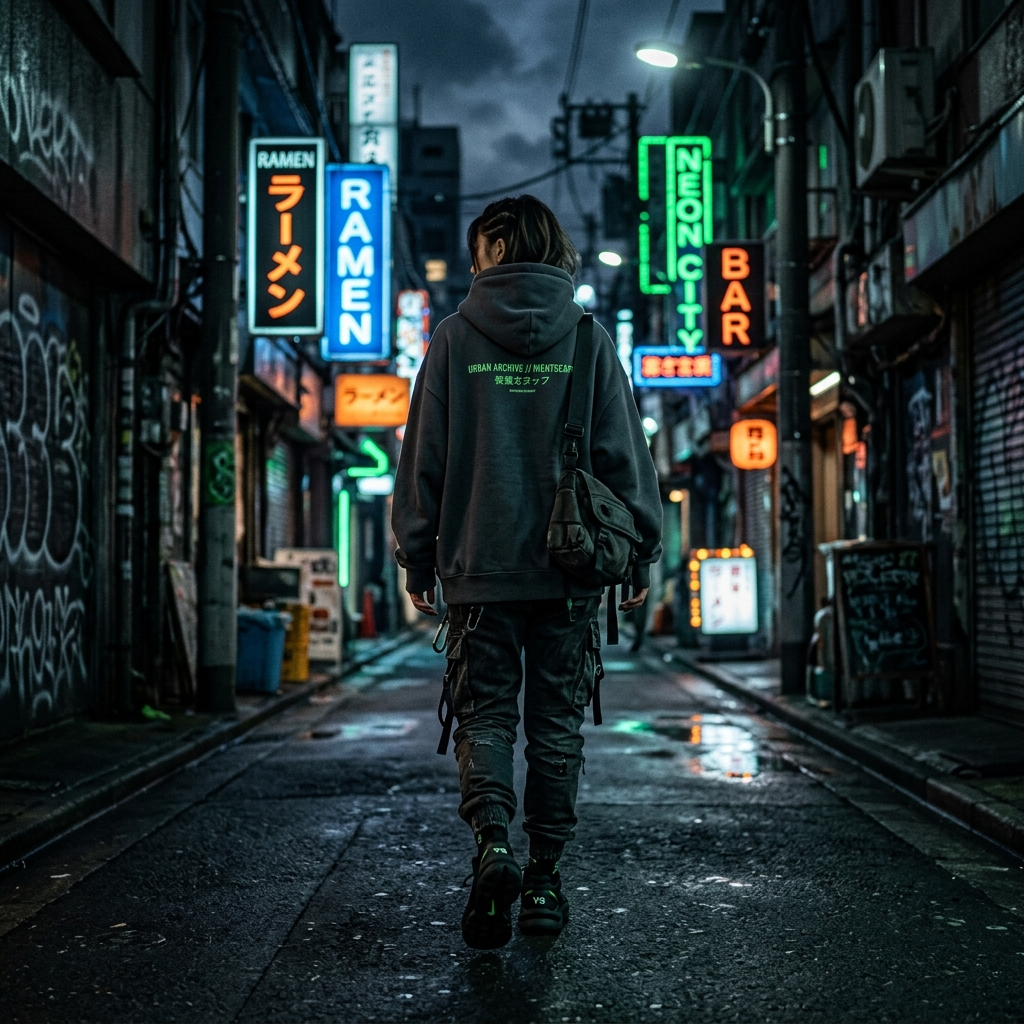
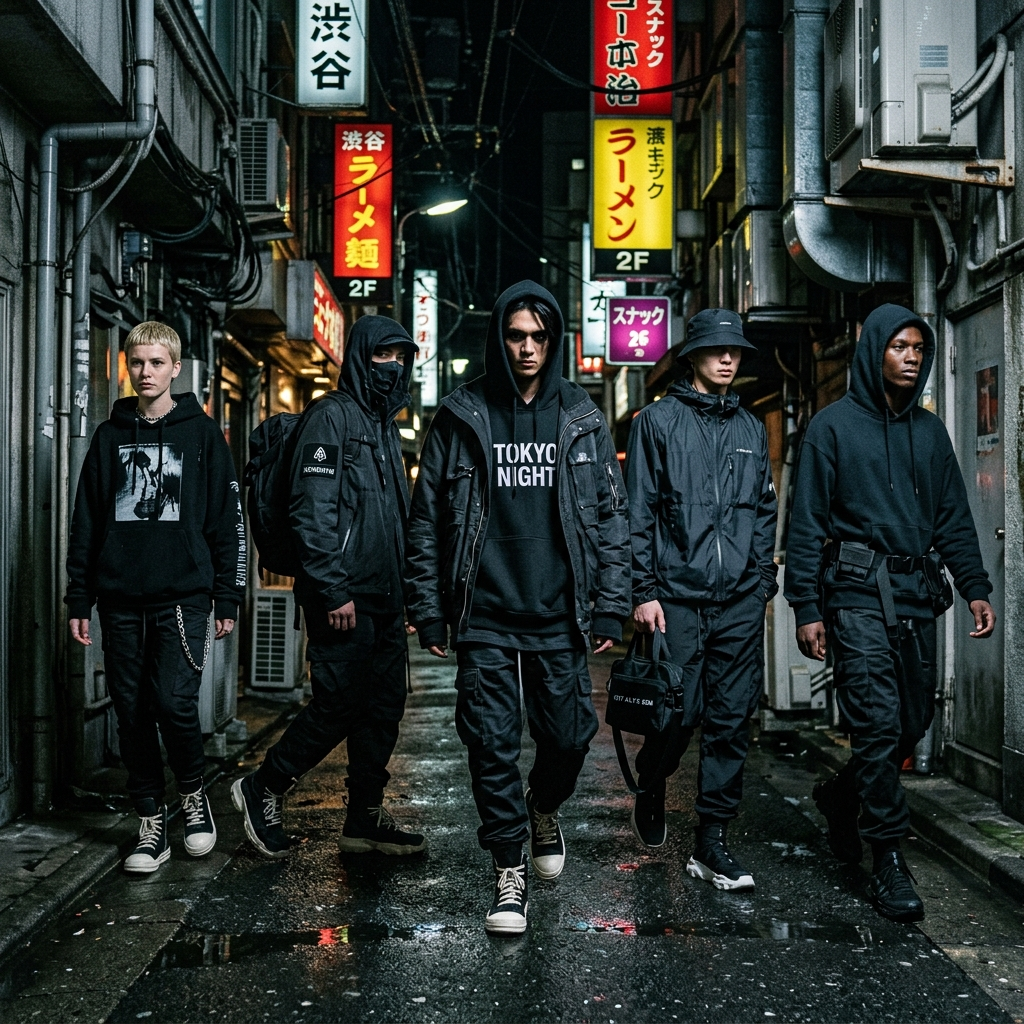
fix: remove unused Cpu import and upgrade hero background image

diff --git a/src/components/VaultSection.tsx b/src/components/VaultSection.tsx
@@ -1,5 +1,5 @@
 
-import { ShieldCheck, Cpu } from 'lucide-react';
+import { ShieldCheck } from 'lucide-react';
 
 const VaultSection = () => {
   return (
